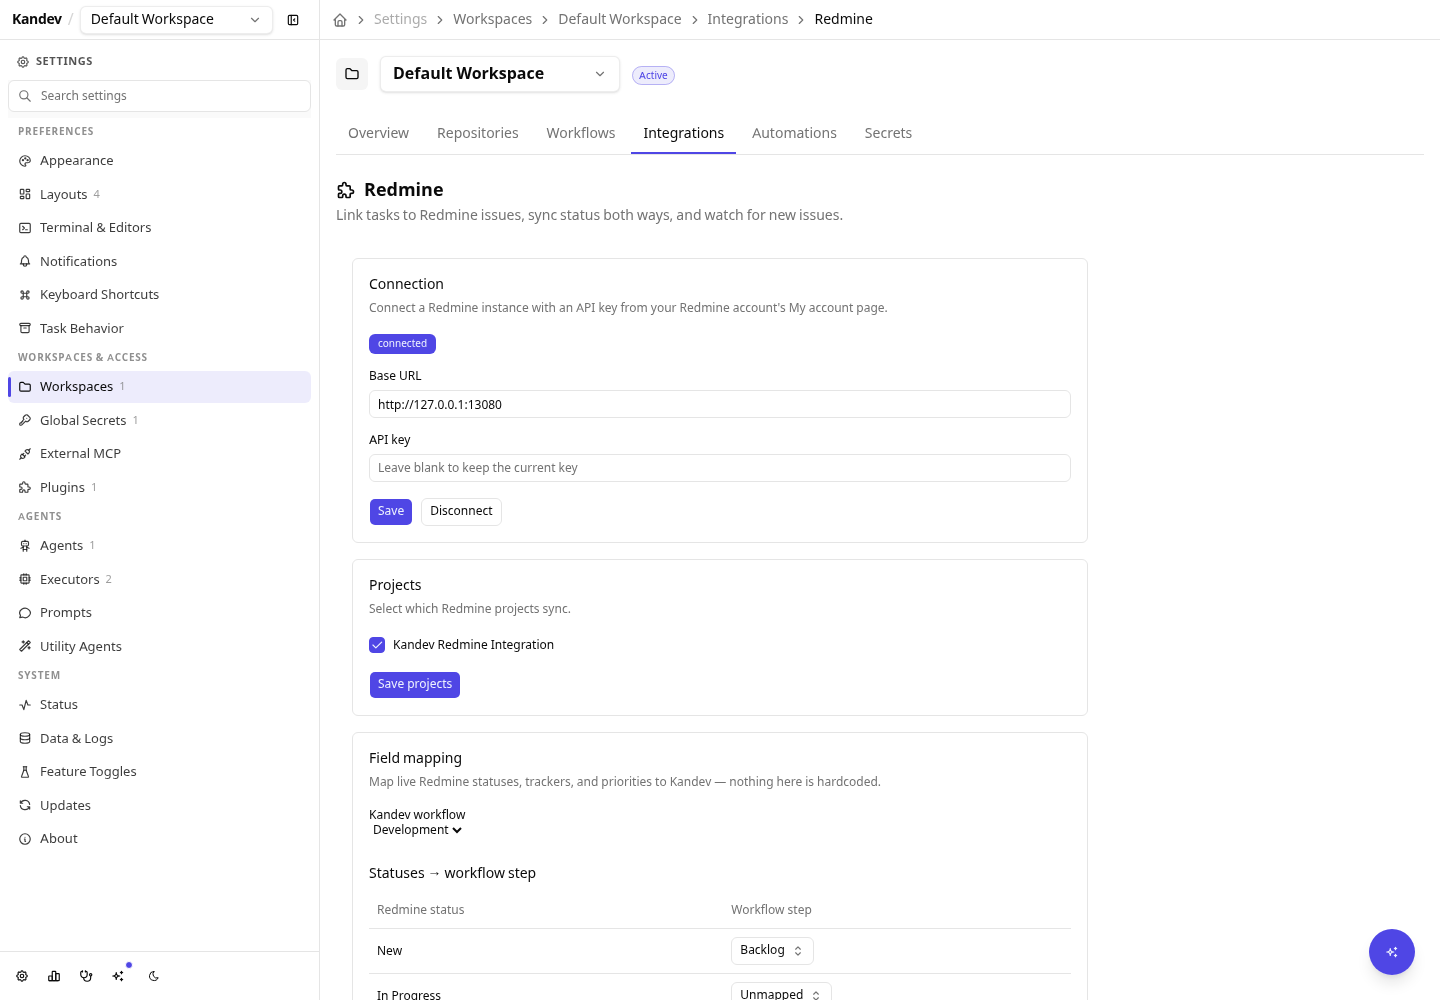
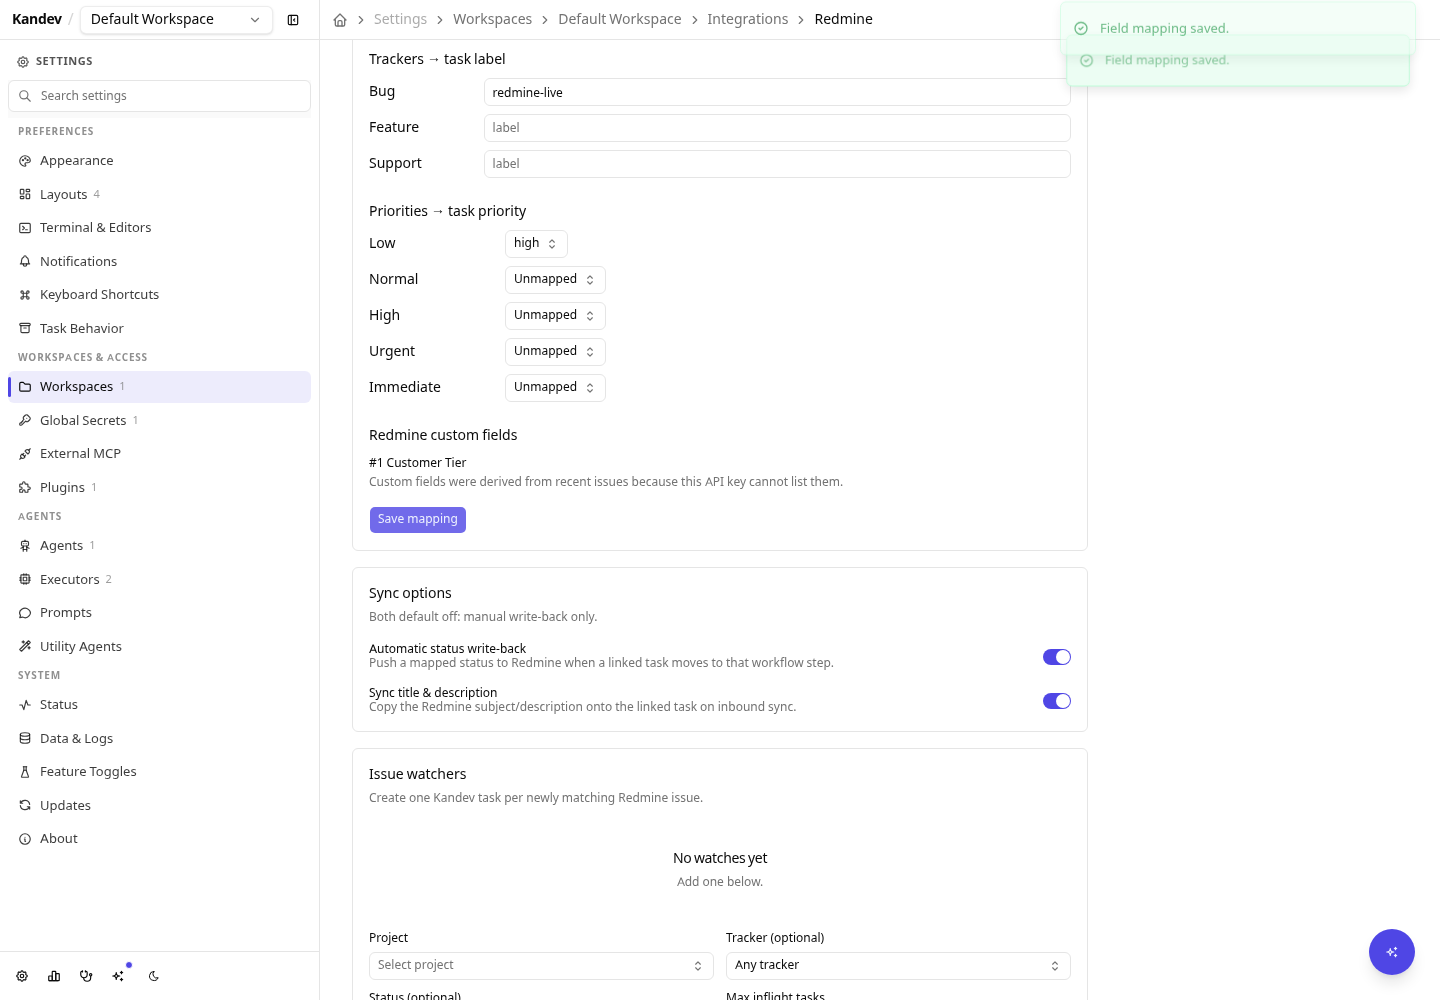
docs(redmine): record non-admin UI validation

diff --git a/docs/integration-2026-08-21.md b/docs/integration-2026-08-21.md
@@ -15,8 +15,8 @@ v0.2.0 candidate. It is automated evidence, not author acceptance.
   `redmine-it-7ca86e53`, isolated storage, REST API enabled, listening on
   `0.0.0.0:13080`.
 - Data: one selected project, more than 100 issues (including closed issues),
-  live statuses/trackers/priorities, a custom field, and two disposable admin
-  API keys used to exercise credential rotation.
+  live statuses/trackers/priorities, a custom field, and two disposable
+  non-admin project-member API keys used to exercise credential rotation.
 - Workspace isolation: the default workspace plus a second workspace created
   and deleted by the acceptance run.
 
@@ -28,21 +28,23 @@ state, task metadata, or action responses.
 | Check | Result | Evidence |
 | --- | --- | --- |
 | Go behavior and race safety | PASS | `go test ./... -race` across connection, client, issues, mappings, links, sync, watches, and server actions. |
-| Static and UI contracts | PASS | `go vet ./...`; `npm run test:ui-contract` (7/7). |
+| Static and UI contracts | PASS | `go vet ./...`; `npm run test:ui-contract` (9/9). |
 | Five-platform package | PASS | `make verify-package`; manifest, five executables, UI bundle, and checksums verified; test sources excluded from the runtime archive. |
 | Packaged native UI | PASS | `npm run e2e`; real tarball installed into disposable Kandev and unconfigured settings UI rendered safely. |
-| Connection and rotation | PASS | Two valid API keys saved sequentially; both validated live; neither appeared in a response; the second workspace remained disconnected. |
-| Projects and live mappings | PASS | Visible projects loaded and selected; statuses, trackers, priorities, and custom-field evidence loaded from Redmine; status/tracker/priority mappings persisted. |
+| Connection and rotation | PASS | Two valid non-admin API keys saved sequentially; both validated live; neither appeared in a response; the second workspace remained disconnected. |
+| Non-admin permissions | PASS | A normal Developer role saw its one authorized project and 119 issues. `/custom_fields.json` returned 403 as expected; the plugin derived the named field from visible issues. Issue/status writes passed with ordinary project-role permissions. |
+| Projects and live mappings | PASS | Visible projects loaded and selected; statuses, trackers, priorities, and custom-field evidence loaded from Redmine; the UI added/removed a live status and persisted only the explicit mappings. |
 | Issue write and attachment | PASS | Binary upload returned token+filename+content type; issue create/update succeeded; Redmine returned the attached filename. |
 | Durable link and manual write-back | PASS | Task linked by `#issue`; link re-read; manual status push succeeded; unlink succeeded. |
 | Closed-status inbound sync | PASS | A linked issue moved to a live `is_closed` Redmine status; the inclusive `status_id=*` poll moved the task to the mapped workflow step and updated its title. |
 | Restart/cursor recovery | PASS | Plugin disable/re-enable retained connection, mapping, link, options, and cursor; a subsequent Redmine update synchronized after restart. |
 | Automatic write-back and echo suppression | PASS | Moving the Kandev task wrote the mapped status to Redmine; after another overlap poll the task remained in the originating step. |
 | Watcher lifecycle | PASS | Immediate and background-capable watch polling created one linked task, a second poll deduplicated it, `maxInflightTasks: 1` held, and watch deletion cascade-deleted the owned task. |
-| Screenshots | PASS | `docs/screenshots/` contains the connected/redacted settings page plus project, mapping, and watcher cards captured by the live Playwright run. |
+| Native integration UI | PASS | The workspace integration card renders the plugin-owned Redmine icon and the shared Kandev enable switch; watcher and mapping pickers use host `Select` controls. |
+| Screenshots | PASS | `docs/screenshots/` contains the integration card, connected/redacted settings page, project picker, explicit mapping editor, and watcher card captured by the live Playwright run. |
 
-Composer submit-time authorization, retry/backoff timing, non-admin custom-field
-fallback, redirect stripping, rollback/compensation branches, and background
+Composer submit-time authorization, retry/backoff timing, redirect stripping,
+rollback/compensation branches, and background
 loop shutdown are covered by focused Go tests because reproducing those fault
 conditions through a browser would be slower and less deterministic than the
 real boundary tests.

diff --git a/docs/spec.md b/docs/spec.md
@@ -22,6 +22,13 @@ workspace's state.
   the host-verified action context for workspace and task scope.
 - Redmine has no core webhooks. Health, inbound synchronization, and watches
   are plugin-owned polling work.
+- A Redmine administrator account is not required. A normal user's API key
+  lists only projects and issues visible to that user; write operations depend
+  on that user's ordinary project-role permissions. Admin-only custom-field
+  listing may return 403 and must use the issue-derived fallback.
+- The workspace enable preference is independent of the connection. Disabling
+  pauses background polling and automatic write-back without deleting the
+  workspace secret or saved configuration.
 
 ## Required behavior
 
@@ -30,8 +37,10 @@ workspace's state.
 2. List all visible projects using Redmine's `offset`/`limit` pagination and
    persist the selected project IDs.
 3. Fetch statuses, trackers, priorities, and custom fields from the connected
-   Redmine instance rather than hardcoding instance-specific values. If custom
-   fields cannot be listed, derive them from recent issues.
+   Redmine instance rather than hardcoding instance-specific values. The user
+   selects a workspace workflow, explicitly adds live Redmine statuses, and
+   selects a Kandev step for each added status. If custom fields cannot be
+   listed, derive them from recent issues.
 4. Create and update issues, including Redmine's upload-token attachment flow.
 5. Persist task-to-issue links, support unlinking, and expose the shared
    Kandev task-link dialog.
@@ -59,6 +68,7 @@ workspace's state.
 | Scenario | Plugin entry point | Host contract | Automated evidence |
 | --- | --- | --- | --- |
 | Connection validation, rotation, revocation, redaction, workspace isolation | `connection.save/get/disconnect` | verified workspace action context; secrets and state RPCs | `internal/connection/connection_test.go`, `server/actions_test.go` |
+| Workspace enable/disable without credential loss | `integration.enabled.get/save` | verified workspace action context; state RPC | `internal/connection/connection_test.go`, `server/actions_test.go`, `ui/e2e/live-redmine.spec.ts` |
 | Health and retry behavior | `connection.HealthPoller` | state/secrets RPCs | `internal/connection/healthpoll_test.go`, `internal/redmineclient/client_test.go` |
 | Project pagination and selected projects | `projects.list/save` | workspace action context; state RPC | `internal/projects/projects_test.go` |
 | Live field mapping and custom-field fallback | `fieldmapping.get/save` | workspace action context; workflows read RPC | `internal/fieldmapping/fieldmapping_test.go` |

diff --git a/README.md b/README.md
@@ -12,11 +12,21 @@ verification trace is [docs/spec.md](docs/spec.md).
   The plugin uses a dot-safe composed key (`redmine.<workspace_id>.api_key`).
   Existing v0.1 plugin-encrypted values are dual-read and migrated on read;
   new values never use plugin-side encryption.
+- **No Redmine administrator required** — a normal Redmine user API key is
+  sufficient. Project and issue lists contain only resources that user can
+  access. Issue creation, edits, and status write-back additionally require
+  the corresponding project-role permissions. If the admin-only custom-field
+  endpoint returns 403, fields are derived from issues visible to that user.
+- **Workspace enable switch** — each Kandev workspace can pause Redmine
+  polling and automatic write-back without deleting its connection, secret,
+  mappings, or watcher definitions.
 - **Own health polling** — no host `healthpoll` equivalent exists for plugins;
   this plugin runs its own ~90s jittered probe per connected workspace.
 - **Project and field mapping** — statuses, trackers, and priorities are always
-  fetched live from the instance and mapped to kandev workflow steps, labels,
-  and priorities; nothing is hardcoded.
+  fetched live from the instance. Users choose a workspace workflow, add only
+  the Redmine statuses they want to map, and select a Kandev step for each;
+  tracker labels and task priorities remain configurable and nothing is
+  hardcoded.
 - **Issue read/write** — always sends `status_id=*` (Redmine defaults to
   open-only), with attachments via the two-step upload-token flow.
 - **Task linking** — `registerTaskAction({placement:"link"})` +
